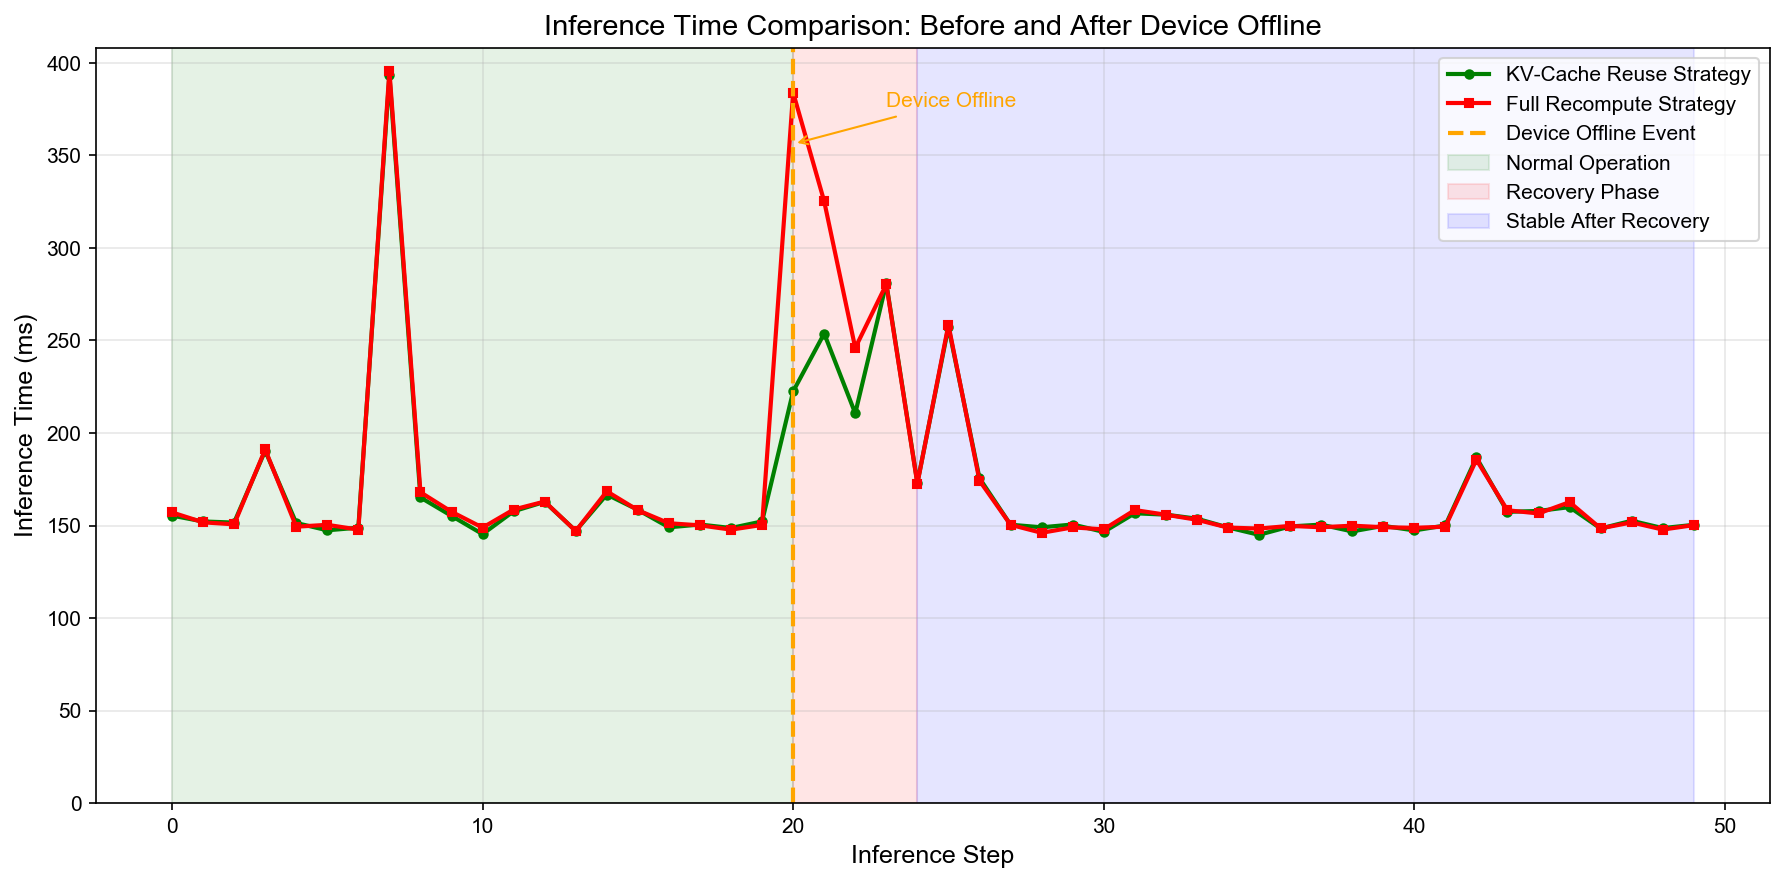
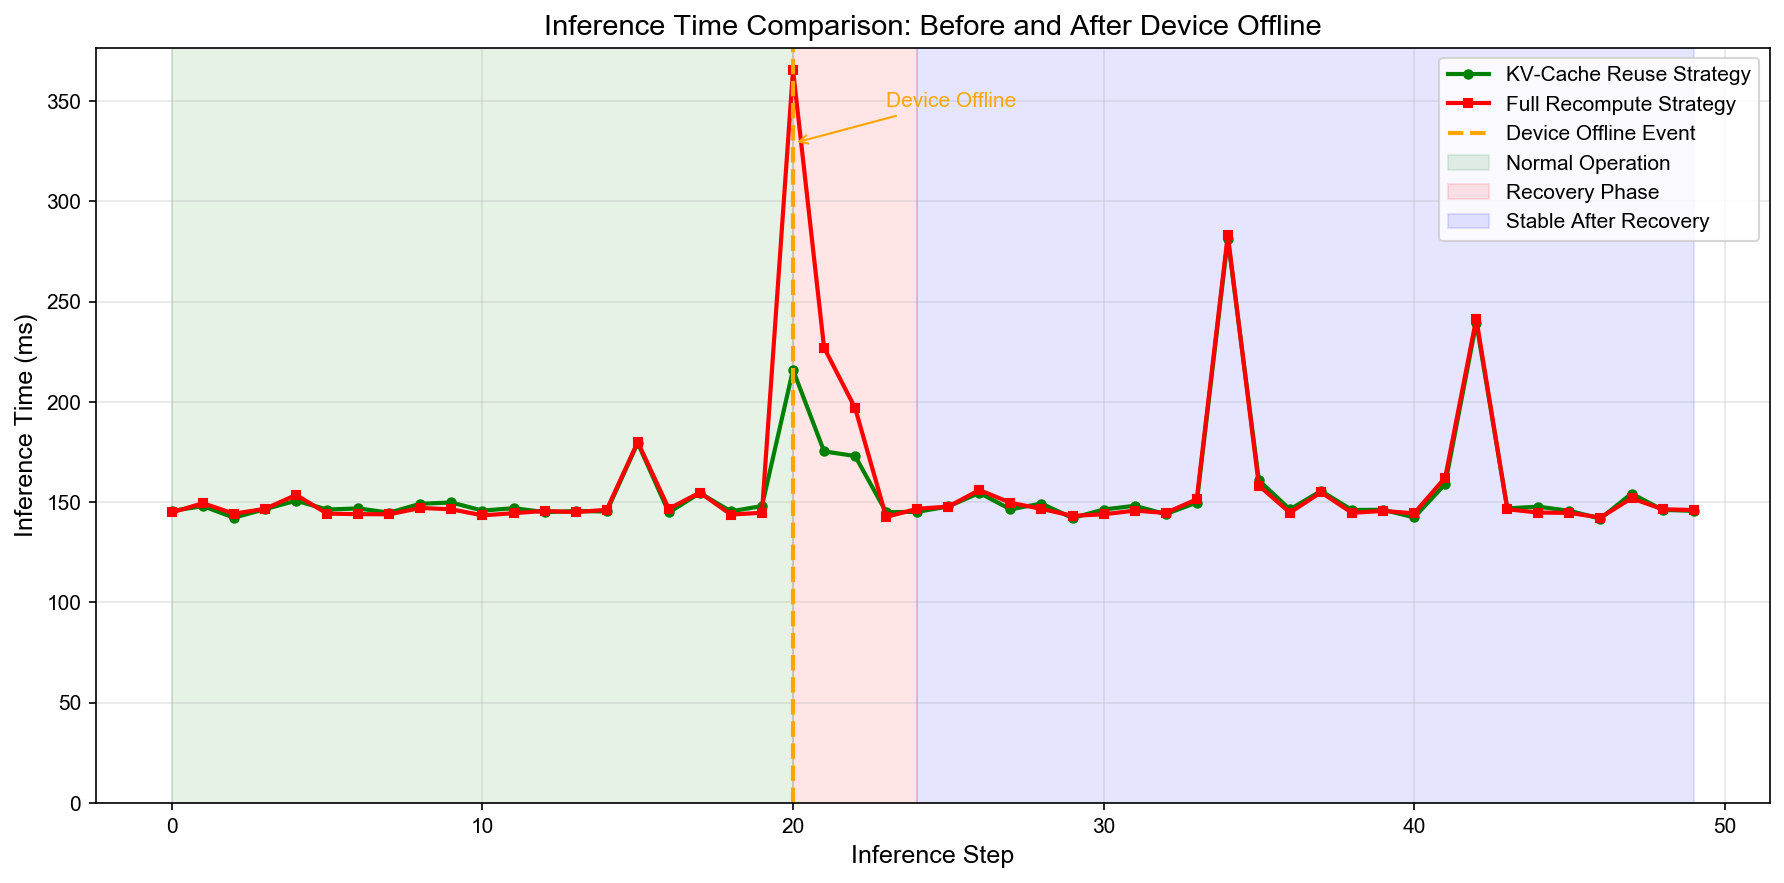
feat: 优化性能可视化模块，调整心跳间隔并增加计算节省比例输出

diff --git a/src/execute_optimization_algorithm/performance_visualizer.py b/src/execute_optimization_algorithm/performance_visualizer.py
@@ -263,7 +263,7 @@ class PerformanceVisualizer:
     def generate_breakdown_data(self,
                                  num_heads_offline: int = 2,
                                  seq_length: int = 64,
-                                 heartbeat_interval: float = 0.5,
+                                 heartbeat_interval: float = 0.1,
                                  max_failures: int = 2) -> Tuple[OfflineRecoveryBreakdown, OfflineRecoveryBreakdown]:
         """
         生成耗时分解数据
@@ -278,6 +278,8 @@ class PerformanceVisualizer:
             (kv_cache_breakdown, full_recompute_breakdown)
         """
         print(f"\n[Visualizer] Generating breakdown data...")
+        print(f"  Offline device heads: {num_heads_offline}")
+        print(f"  Total KV heads: {self.n_kv_heads}")
         
         # 心跳检测时间（两种策略相同）
         heartbeat_time = self.simulate_heartbeat_detection(heartbeat_interval, max_failures)
@@ -285,19 +287,23 @@ class PerformanceVisualizer:
         # 任务重分配时间（两种策略相同）
         reassignment_time = self.simulate_task_reassignment(num_heads_offline)
         
+        # 首先测量单个head的计算时间基准
+        # 通过测量全量heads的时间来计算单个head的平均时间
+        total_heads_time = 0
+        for _ in range(3):
+            total_heads_time += self.simulate_inference_step(self.n_kv_heads, seq_length)
+        total_heads_time /= 3
+        
+        # 计算单个head的平均时间
+        time_per_head = total_heads_time / self.n_kv_heads
+        
         # KV-Cache 复用策略的重计算时间
-        # 只需要计算离线设备的heads
-        kv_recompute_time = 0
-        for _ in range(3):  # 多次测量取平均
-            kv_recompute_time += self.simulate_inference_step(num_heads_offline, seq_length)
-        kv_recompute_time /= 3
+        # 只需要重新计算离线设备的heads（其他设备的KV-Cache可以复用）
+        kv_recompute_time = time_per_head * num_heads_offline
         
         # 全量重计算策略的重计算时间
-        # 需要计算所有heads
-        full_recompute_time = 0
-        for _ in range(3):  # 多次测量取平均
-            full_recompute_time += self.simulate_inference_step(self.n_kv_heads, seq_length)
-        full_recompute_time /= 3
+        # 需要清除所有缓存，重新计算所有heads
+        full_recompute_time = total_heads_time
         
         kv_breakdown = OfflineRecoveryBreakdown(
             strategy_name="KV-Cache Reuse",
@@ -315,10 +321,16 @@ class PerformanceVisualizer:
             total_ms=heartbeat_time + reassignment_time + full_recompute_time
         )
         
+        # 计算节省比例
+        recompute_saved = full_recompute_time - kv_recompute_time
+        recompute_saved_percent = (recompute_saved / full_recompute_time) * 100
+        
+        print(f"  Time per head: {time_per_head:.2f}ms")
         print(f"  KV-Cache Reuse: heartbeat={heartbeat_time:.2f}ms, "
-              f"reassign={reassignment_time:.2f}ms, recompute={kv_recompute_time:.2f}ms")
+              f"reassign={reassignment_time:.2f}ms, recompute={kv_recompute_time:.2f}ms (only {num_heads_offline} heads)")
         print(f"  Full Recompute: heartbeat={heartbeat_time:.2f}ms, "
-              f"reassign={reassignment_time:.2f}ms, recompute={full_recompute_time:.2f}ms")
+              f"reassign={reassignment_time:.2f}ms, recompute={full_recompute_time:.2f}ms (all {self.n_kv_heads} heads)")
+        print(f"  Recomputation time saved: {recompute_saved:.2f}ms ({recompute_saved_percent:.1f}%)")
         
         return kv_breakdown, full_breakdown
     
